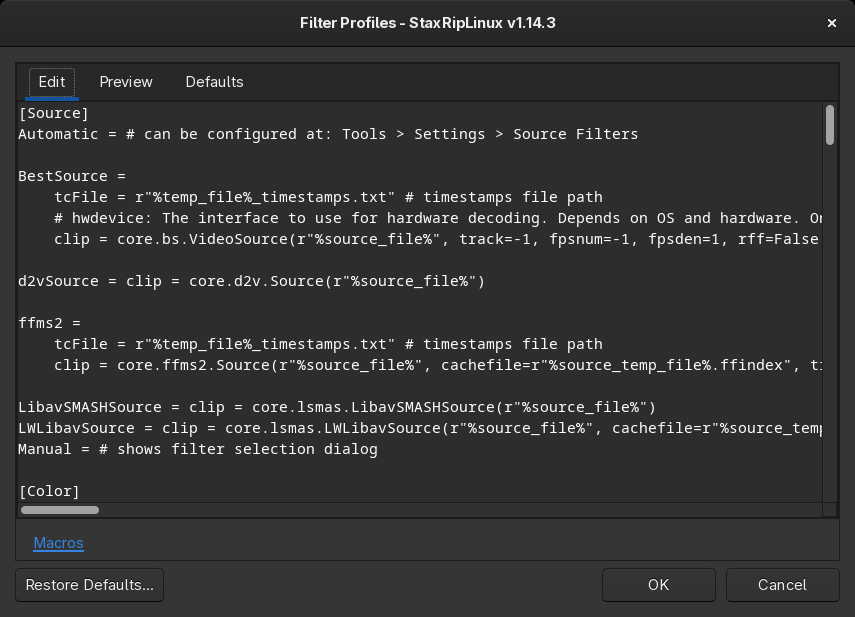
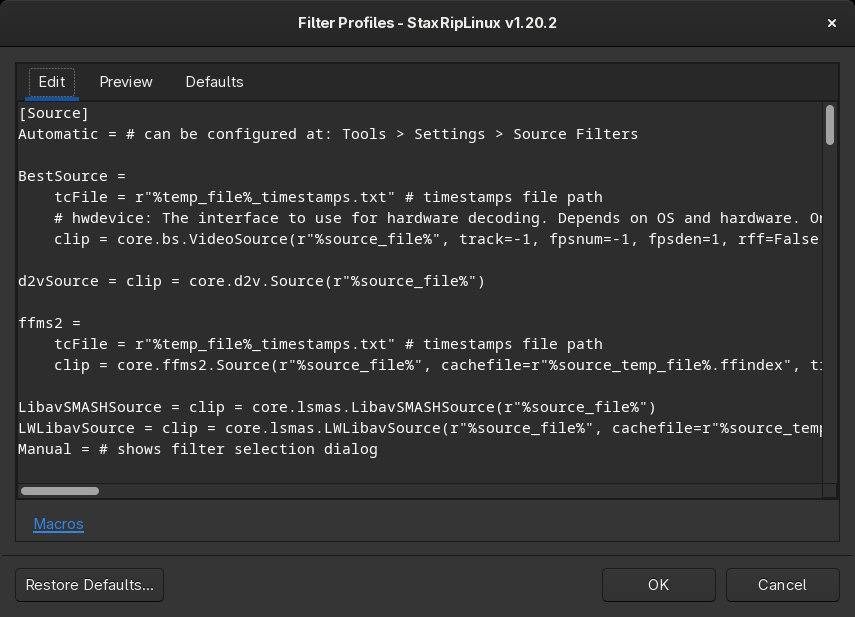
docs: describe the redesigned main window and retake the screenshots
The main window now consists of a toolbar, cards for source, target,
filters, crop and resize, video and audio, and the next step at the
bottom instead of the assistant bar, so the main window page gets
sections for the toolbar, the cards and the next step, and the
documentation indexes, the overview and the readme link to them.

All 32 screenshots are taken again with v1.20.2 on a GNOME (mutter)
desktop with Adwaita dark and optimized with optipng. The toolbar and
the next step get their own images, the assistant image is removed.

Tested: every image referenced by the docs exists, no page links to
the removed assistant image or to the old section anchors.

Changed region(s): [[0.0, 0.7699, 0.9731, 0.9238], [0.3345, 0.0308, 0.669, 0.0616]]

diff --git a/Docs/Usage/User-Interface/Main.md b/Docs/Usage/User-Interface/Main.md
@@ -1,13 +1,14 @@
-# [Documentation](../../README.md) / [Usage](../README.md) / [User Interface](README.md) / Main Window
+# [Documentation](../../README.md) / [Usage](../README.md) / [User Interface](README.md) / Main Window
 
 - [Main Menu](Main.md#main-menu)
+- [Toolbar](Main.md#toolbar)
 - [Source](Main.md#source)
 - [Target](Main.md#target)
-- [Filter](Main.md#filter)
-- [Resize](Main.md#resize)
-- [Encoder/Container](Main.md#encodercontainer)
+- [Filters](Main.md#filters)
+- [Crop and Resize](Main.md#crop-and-resize)
+- [Video](Main.md#video)
 - [Audio](Main.md#audio)
-- [Assistant](Main.md#assistant)
+- [Next Step](Main.md#next-step)
 
 -----
 
@@ -16,7 +17,9 @@ will appear some dialogs beforehand, but you will also end up on the main window
 
 <img width=600 src="../../../Images/Screenshots/MainWindow.png">  
 
-Let's look at each section and see, what we can find there:
+The main window shows the whole encode at once: the toolbar at the top, below it a card for each part of the encode
+and at the bottom the next step. Every card has its menus and options as buttons next to its heading.
+Let's look at each part and see, what we can find there:
 
 ## Main Menu
 
@@ -103,13 +106,10 @@ to feed the video encoder. It is also used to cut the video.
     	Opens the [Event Commands](Event-Commands.md) dialog, where you can alter the events.
 	- ##### Reset Settings
     	Opens a dialog allowing you to reset specific settings.
-	- ##### Command Prompt
-    	Opens a Command Prompt session window with additional and/or extended environment variables.
+	- ##### Terminal
+    	Opens a terminal in the working folder with additional and/or extended environment variables.
 	- ##### PowerShell Terminal
-    	Opens a PowerShell session window with additional and/or extended environment variables.
-	- ##### Windows Terminal
-		Opens a Windows Terminal session window with additional and/or extended environment variables.  
-		> :information_source: Only visible, if Windows Terminal was found on your system.
+    	Opens a PowerShell session in a terminal with additional and/or extended environment variables.
 
 - #### Edit Menu
 	Opens the [Menu Editor](Menu-Editor.md), which you can use to customize the Main Menu.
@@ -125,44 +125,83 @@ There you can check all used apps and plugins with all their information.
 Many help related entries, that might help you in some cases.
 
 
+## Toolbar
+
+<img width=600 src="../../../Images/Screenshots/MainWindowToolbar.png">  
+
+- #### Open
+    The button opens a single source file. Its arrow lists the other ways to open a source: multiple files,
+    merging files, a file batch, a Blu-ray folder or image. `Ctrl+O` and `File > Open Video Source File(s)` ask
+    for the way first, for more information check out [Open Video Source File(s)](Opening.md).
+- #### Preview
+    Opens the [Preview](Preview.md), where you can see the result of your filters and cut the video (`F4`).
+- #### Crop
+    Opens the [Crop](Crop.md) window (`F3`).
+- #### Jobs
+    Opens the [Jobs](Jobs.md) (`F6`).
+- #### Add to Jobs
+    Adds the current project as a job to the job list and opens it. It's enabled as soon as the
+    [next step](Main.md#next-step) says that the job is ready. Hold `Shift` to add the job at the top of the list
+    and `Ctrl` to keep the list closed, the button shows what it will do. The default behavior can be configured
+    via [Settings](Settings.md#user-interface). The arrow lists the four ways to add the job.
+
 ## Source
 
-The Source section is on the upper left side and it contains the path of the source file as well as some information about it,
-like its length, size, bitrate, framerate, resolution and so on.
+The Source card shows the path of the source file and its properties, like its duration, size, bitrate, frame rate,
+resolution, color format, HDR format and codec.
 
-With a right-click on the source file text field you can open a menu for some additional functions:
+Below them the crop size and the pixel aspect ratio (PAR) and display aspect ratio (DAR) of the source are shown.
+`PAR` and `DAR` are menus to override the aspect ratio of the source.
+
+The button with the three dots next to the heading opens the source file menu, which also opens with a right-click
+on the path:
 
 <img width=150 src="../../../Images/Screenshots/MainWindowSourceTargetContextMenu.png">  
 
 - #### Open
     Opens the [Open Video Source File(s)](Opening.md) dialog to select a source file.
 - #### Play
-    Plays the source file with `mpv.net`.
+    Plays the source file with `mpv`.
 - #### Media Info
-    Opens `MediaInfo.NET` to show you deeper information about the selected source file. This can be useful
+    Shows the MediaInfo of the source file.
 - #### Explore
-    Opens the folder, that contains the source file.
+    Opens the folder, that contains the source file, in the file manager.
 - #### Copy / Paste
-    What could it be...
+    Copies and pastes the path.
+
+Video files can also be opened by dropping them on the main window.
 
 
 ## Target
 
-The Target section is on the upper right side and it contains the path of the target file as well as some information about it,
-like its length, resolution, framerate and the bitrate of all audio tracks.
+The Target card shows the path of the target file and the properties of the encode, like its duration, frame rate,
+resolution, the bitrate of all audio tracks and the subtitles.
 These data is based on the outcome of the [Frame Servers](../Frame-Servers.md),
-so after the [filters](Main.md#filter) are applied.
+so after the [filters](Main.md#filters) are applied.
 
 > :warning: It's important to note, that these information show the state before the script data is passed to the encoder.  
 > So the final result can be different depending on the encoder settings.
 
-With a right-click on the target file text field you can open a menu for some additional functions,
-that are almost identical to those from the [Source](Main.md#source) section.
+Next to the heading there are:
 
-## Filter
+- #### Container
+    The button shows the container of the target file, `MKV` or `MP4` in most cases. It opens a menu with all
+    container profiles, `Edit Profiles...` opens a dialog to edit this list and the containers themselves.
+- #### Options
+    Opens the [Container Options](Container-Options.md) with the audio tracks, subtitles, attachments, tags and
+    chapters of the target file.
+- #### Target file menu
+    The button with the three dots opens a menu like the one of the source, with `Browse File...` to choose
+    another target file.
 
-The filter section is one of the most important parts of StaxRipLinux. At the top you can see which type of filters is used,
-so either `AVS Filters` or `VS Filters`, indicating the usage of `AviSynth+` or `VapourSynth`.  
+When the encoder encodes with a bitrate instead of a quality, the card also shows the size of the target file and the
+video bitrate. `Size` opens a menu with common sizes.
+
+
+## Filters
+
+The Filters card is one of the most important parts of StaxRipLinux. The button next to its heading shows the frame
+server, `VapourSynth` or `AviSynth`, and opens the menu of the filters.
 For more details on that check out [Frame Servers](../Frame-Servers.md).
 
 Below all filters, that are set up, are listed.
@@ -178,7 +217,7 @@ Next to the checkbox there is the name of the category and then the name of the 
 
 Filters can be moved via drag&drop easily, in case you have to change the order.  
 With a double-click on the list you can open the [Code Editor](Code-Editor.md) directly.  
-A right-click on a specific filter open an item related context menu:
+The button next to the heading and a right-click on a filter open the filter menu:
 
 <img width=300 src="../../../Images/Screenshots/MainWindowFilterContextMenu.png">  
 
@@ -204,7 +243,7 @@ A right-click on a specific filter open an item related context menu:
     Shows some basic information about the resulting video like resolution, framerate and duration.
     > :information_source: This is the same information you get on the [Preview](Preview.md).
 - #### Play
-    Plays the resulting script with `mpv.net`.
+    Plays the resulting script with `mpv`.
 - #### Profiles
     Opens the [Filter Profiles window](Filter-Profiles.md), where you can alter and reset the profiles,
     that then can be used to be added to the list of filters.  
@@ -225,30 +264,30 @@ A right-click on a specific filter open an item related context menu:
         > :information_source: Even though they can be useful in some cases,
 		you should consider creating a template instead.
 
-## Resize
+## Crop and Resize
 
-The resize section gives you the opportunity to resize the given video pretty easy. To do so you can choose between
-(custom) pre-defined resolutions as well as a slider.
+The Crop and Resize card gives you the opportunity to resize the given video pretty easy. To do so you can choose
+between (custom) pre-defined resolutions as well as a slider.
 
-A click on `Resize` at the upper left opens a menu with a bunch of pre-defined resolutions to choose from. Via `Edit Menu`
-you can open the Editor to customize those values.
+`Presets` next to the heading opens a menu with pre-defined resolutions to choose from, `Image Options...` opens the
+image page of the [Project Options](Project-Options.md) and `Edit Menu...` the editor to customize the resolutions.
 
 Below the actual resolution is shown, separated in `Width` and `Height`. In case the `Resize` filter is active,
 you can use the `up`/`down` keys or the mouse wheel to increment/decrement the values by the set `Output Mod` value
 in [Project Options](Project-Options.md), by default `2`.  
-Alternatively you can move the slider below to adjust the resolution.
+Alternatively you can move the slider below to adjust the resolution, with `Ctrl` it resizes anamorphic.
 
 Then you get some information about the target image/video:
 
 - #### Crop
-    The crop values, set by hand via [Crop](Crop.md) or by `Auto Crop`.  
+    The crop values, set by hand via [Crop](Crop.md) or by `Auto Crop`. `Crop...` opens the [Crop](Crop.md) window.  
     For more information check out [Cropping](../Cropping.md).
 - #### DAR
-    Display Acpect Ratio.
+    Display Aspect Ratio, `DAR` opens a menu to set it.
 - #### SAR
-    Storage Acpect Ratio.
+    Storage Aspect Ratio.
 - #### PAR
-    Pixel Acpect Ratio.
+    Pixel Aspect Ratio, `PAR` opens a menu to set it.
 - #### Pixel
     Calculated number of pixels.
 - #### Zoom
@@ -258,64 +297,65 @@ Then you get some information about the target image/video:
 
 <img width=300 src="../../../Images/Screenshots/MainWindowResize.png">  
 
-## Encoder/Container
+## Video
 
-This panel comes in 2 outfits: A more complex variant, that let's you see/check and set certain parameters (see left image),
-and a basic panel with two options to open the [Encoder Options](Encoder-Options.md) as well the [Container Options](Container-Options.md).  
-
-<img width=300 src="../../../Images/Screenshots/MainWindowEncoderContainer.png">  <img width=300 src="../../../Images/Screenshots/MainWindowEncoderContainer2.png">  
-
-What both have in common is a button on the upper left side, that shows the name of the current selected encoder.
-When you click on it, you get a context menu, where you can choose all encoder profiles from.  
-In the upper right corner there is another button, indicating the file extension of the target file.
-This is `MKV` or `MP4` in most cases, but can be something else, especially when `No Muxing` is selected.  
-By clicking on `Edit Profiles...` you can open a dialog,
-where you can edit these lists as well as the encoder/muxer themselves.
+The Video card shows the video encoder. The button next to the heading shows the name of the current encoder profile
+and opens a menu with all encoder profiles, `Edit Profiles...` opens a dialog to edit this list and the encoders
+themselves. `Options...` opens the [Encoder Options](Encoder-Options.md).
 
 <img width=300 src="../../../Images/Screenshots/MainWindowEncoderMenu.png">  
 
-So let's go back and concentrate on the more advanced variant (left image):  
-At the bottom left there is a button saying `Options`, where you can open the [Encoder Options](Encoder-Options.md) and
-at the bottom right there is one saying `Container Options`, where you open the [Container Options](Container-Options.md).  
-In between a button saying `Target Name Override` indicates whether the [Override Target File Name](Encoder-Options.md)
-feature is enabled or not. By clicking on it you can toggle its status.
+The card comes in 2 outfits:
+
+<img width=300 src="../../../Images/Screenshots/MainWindowEncoderContainer.png">  <img width=300 src="../../../Images/Screenshots/MainWindowEncoderContainer2.png">  
+
+Encoders like x264, x265, SVT-AV1, vvenc and NVEncC show their most important settings, like the quality and the preset.
+A click on a setting opens a menu with its values. `Override target name` enables the
+[Override Target File Name](Encoder-Options.md) feature, a right-click on it opens this option in the
+[Encoder Options](Encoder-Options.md). Encoders that encode with a bitrate offer the compressibility check.
+
+Other encoders show their command line, `Copy/Mux` copies the video stream without encoding it.
 
 ## Audio
 
-Each row represents one audio track. The text field contains the stream or file name of the source.
-Right next to it, a label is showing the name of the language, that is assigned to that audio track.  
-Next to the language name is a button with the name of the current set audio profile.
-When clicked on it a menu with all available audio profiles opens and by clicking on `Edit Profiles...` you can open a dialog,
-where you can edit this list as well as the audio profiles themselves.  
-At the very right an `Edit` button lets you open and edit the current audio profile.
+The Audio card has a row for each audio track. The text field contains the stream or file name of the source,
+next to it there are:
+
+- #### Track menu
+    The button with the three dots opens the menu of the track, which also opens with a right-click on the text field.
+    It lists the audio streams of the source and the audio files of the temp folder to choose from, `Open File` to
+    choose another file, and commands to play the track, show its MediaInfo, explore its folder, process it or
+    remove it from the track.
+- #### Language
+    The language of the track, which is set in its audio settings.
+- #### Profile
+    The button shows the audio profile of the track and opens a menu with all audio profiles, `Edit Profiles...` opens
+    a dialog to edit this list as well as the audio profiles themselves.
+- #### Edit
+    Opens the audio settings of the track for the current project or template.
+
+`Add Track` next to the heading adds a track and opens its menu, so you can choose a stream or file right away.
 
 > :information_source: The profile `No Audio` lets the audio track being ignored and not muxed to the final result.  
-> :information_source: The number of available audio tracks is optional and can be set in [Project Options](Project-Options.md).
-
-> [!NOTE]
-> TODO: How are the tracks filled? Menus?
+> :information_source: Tracks without a file and with the default profile are hidden, a template shows the tracks
+> it sets up. The maximum number of tracks can be set in [Project Options](Project-Options.md).
 
 <img width=600 src="../../../Images/Screenshots/MainWindowAudio.png">  
 
-> [!NOTE]
-> TODO: Right-Click-Menu
-
 <img width=300 src="../../../Images/Screenshots/MainWindowAudioMenu.png">  
 
-## Assistant
+## Next Step
 
-The Assistant is there to provide information about the current project status,
-including script errors, possible inconsistencies and warnings as well as configuration errors.
+The bar at the bottom says what needs attention next, so you can check the project before you add the job:
 
-In case of a warning or error, you can mostly click on the message to get more information or
-open the window, in which the configuration causes issues.
-In many cases buttons or labels in regard will be highlighted nayways.
+<img width=600 src="../../../Images/Screenshots/MainWindowNextStep.png">  
 
-At the very right there is a button to accept warnings in case there is one and
-to add the current project as a job to the queue. 
-With a right-click you can open a context menu that offers you the possibility to add the job at the bottom/top
-as well as with or without opening the [Jobs](Jobs.md).  
-For quick usage you can use the CTRL and SHIFT keys instead.
-The default behavior can be configured via [Settings](Settings.md#user-interface).
+- A **hint** reminds you of a step you may want to do, like checking the crop or cutting the video.
+- A **warning** points out a possible problem, like an existing target file or a high audio delay.
+- An **error** has to be resolved before the job can be added, like a container that doesn't support the encoder
+  output or a script error.
+- When everything is fine, the bar says that the job is **ready** and [Add to Jobs](Main.md#add-to-jobs) is enabled.
 
-<img width=600 src="../../../Images/Screenshots/MainWindowAssistant.png">  
+The button next to the message opens what resolves it, for example the crop window, the target file dialog or the
+encoder options. Hints and warnings can be skipped with `Continue`, the next one is shown then. The controls a
+message refers to are outlined.

diff --git a/README.md b/README.md
@@ -17,7 +17,7 @@ Each project can also be extended by various events and settings.
 
 ***StaxRipLinux is no One-Click Encoder!***  
 StaxRipLinux is capable of performing a wide variety of jobs for video/audio processing. To unleash its full power, users are required to know what they want to achieve and how to set up StaxRipLinux to meet their needs.
-If you are a first-time user, it is especially strongly recommended that you learn the basics referring to the documents and do some tests to understand how StaxRipLinux works and what you can achieve with it. However, StaxRipLinux also provides an 'Assistant' feature that will guide you through your jobs step by step so that you can start more easily and prevent mistakes.
+If you are a first-time user, it is especially strongly recommended that you learn the basics referring to the documents and do some tests to understand how StaxRipLinux works and what you can achieve with it. However, the next step at the bottom of the main window guides you through your jobs step by step so that you can start more easily and prevent mistakes.
 
 There are a lot of resources in StaxRip-related communities. Users are strongly encouraged to visit those communities for help and more information.
 

diff --git a/Docs/README.md b/Docs/README.md
@@ -26,13 +26,14 @@
 - [User Interface](Usage/User-Interface/README.md)
     - [Main Window](Usage/User-Interface/Main.md)
         - [Main Menu](Usage/User-Interface/Main.md#main-menu)
+        - [Toolbar](Usage/User-Interface/Main.md#toolbar)
         - [Source](Usage/User-Interface/Main.md#source)
         - [Target](Usage/User-Interface/Main.md#target)
-        - [Filter](Usage/User-Interface/Main.md#filter)
-        - [Resize](Usage/User-Interface/Main.md#resize)
-        - [Encoder/Container](Usage/User-Interface/Main.md#encodercontainer)
+        - [Filters](Usage/User-Interface/Main.md#filters)
+        - [Crop and Resize](Usage/User-Interface/Main.md#crop-and-resize)
+        - [Video](Usage/User-Interface/Main.md#video)
         - [Audio](Usage/User-Interface/Main.md#audio)
-        - [Assistant](Usage/User-Interface/Main.md#assistant)
+        - [Next Step](Usage/User-Interface/Main.md#next-step)
     - [Open Video Source File(s)](Usage/User-Interface/Opening.md) :x:
         - [eac3to Demuxing](Usage/User-Interface/Opening#eac3to-demuxing.md) :x:
     - [Template Selection](Usage/User-Interface/Template-Selection.md) :x:

diff --git a/Docs/Usage/README.md b/Docs/Usage/README.md
@@ -8,13 +8,14 @@ so you can use StaxRipLinux and its settings correctly.
 - [User Interface](User-Interface/README.md)
     - [Main Window](User-Interface/Main.md)
         - [Main Menu](User-Interface/Main.md#main-menu)
+        - [Toolbar](User-Interface/Main.md#toolbar)
         - [Source](User-Interface/Main.md#source)
         - [Target](User-Interface/Main.md#target)
-        - [Filter](User-Interface/Main.md#filter)
-        - [Resize](User-Interface/Main.md#resize)
-        - [Encoder/Container](User-Interface/Main.md#encodercontainer)
+        - [Filters](User-Interface/Main.md#filters)
+        - [Crop and Resize](User-Interface/Main.md#crop-and-resize)
+        - [Video](User-Interface/Main.md#video)
         - [Audio](User-Interface/Main.md#audio)
-        - [Assistant](User-Interface/Main.md#assistant)
+        - [Next Step](User-Interface/Main.md#next-step)
     - [Open Video Source File(s)](User-Interface/Opening.md)
         - [eac3to Demuxing](User-Interface/Opening#eac3to-demuxing.md)
     - [Template Selection](User-Interface/Template-Selection.md)

diff --git a/Docs/Introduction/Overview.md b/Docs/Introduction/Overview.md
@@ -19,8 +19,8 @@ If you are a first-time user, it is especially strongly recommended that you lea
 and do some tests to understand how StaxRipLinux works and what you can achieve with it.
 A good way to start is [First Start](../Usage/First-Start.md).
 
-However, StaxRipLinux also provides an [Assistant](../Usage/User-Interface/Main/Assistant.md) feature that
-will guide you through your jobs step by step so that you can start more easily and prevent mistakes.
+However, the [next step](../Usage/User-Interface/Main.md#next-step) at the bottom of the main window guides you
+through your jobs step by step so that you can start more easily and prevent mistakes.
 
 There are a lot of resources in StaxRip-related [communities](Community.md).
 Users are encouraged to visit those [communities](Community.md) for help and more information.

diff --git a/Docs/Usage/User-Interface/README.md b/Docs/Usage/User-Interface/README.md
@@ -7,13 +7,14 @@ Most controls, and/or their belonging labels, offer you a quick help, if you rig
 
 - [Main Window](Main.md)
     - [Main Menu](Main.md#main-menu)
+    - [Toolbar](Main.md#toolbar)
     - [Source](Main.md#source)
     - [Target](Main.md#target)
-    - [Filter](Main.md#filter)
-    - [Resize](Main.md#resize)
-    - [Encoder/Container](Main.md#encodercontainer)
+    - [Filters](Main.md#filters)
+    - [Crop and Resize](Main.md#crop-and-resize)
+    - [Video](Main.md#video)
     - [Audio](Main.md#audio)
-    - [Assistant](Main.md#assistant)
+    - [Next Step](Main.md#next-step)
 - [Open Video Source File(s)](Opening.md)
     - [eac3to Demuxing](Opening#eac3to-demuxing.md)
 - [Template Selection](Template-Selection.md)
